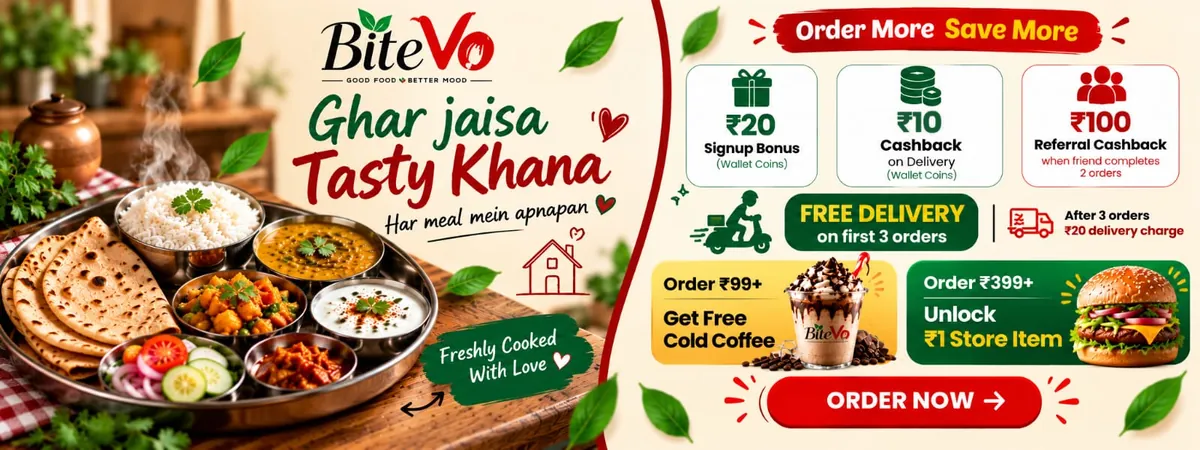
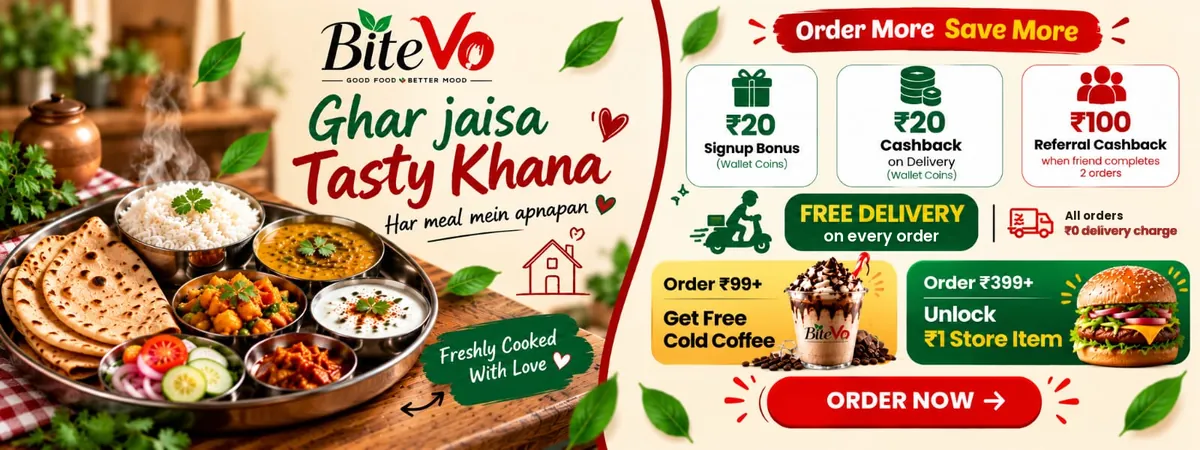
Free delivery on every order; ₹20 cashback after delivery
- DELIVERY_FEE=0 now means free delivery on every order (the default); the
  first-orders rule only applies when a fee is set. The bill and menu say
  "Free delivery on every order".
- Cashback after delivery is ₹20 again (signup bonus stays ₹20).
- Offer banner (website and app): ₹20 cashback, "FREE DELIVERY on every
  order" and "All orders / ₹0 delivery charge"; banner text updated.

Changed region(s): [[0.6783, 0.4978, 0.8017, 0.56], [0.8942, 0.4667, 0.9867, 0.5289], [0.74, 0.2489, 0.8017, 0.3111]]

diff --git a/backend/src/pricing.js b/backend/src/pricing.js
@@ -98,14 +98,18 @@ export async function quote({ items, couponCode, useWallet }, customer) {
   const itemTotal = lines.reduce((s, l) => s + l.price * l.qty, 0);
   const { offers } = config;
 
-  // Free delivery on the first few orders (cancelled ones don't count), then the delivery fee.
+  // Delivery: free on every order when the fee is 0. Otherwise free on the first few orders (cancelled ones
+  // don't count), then the delivery fee.
   const pastOrders = customer ? await store.count('orders', { customerId: customer._id, status: { $ne: 'cancelled' } }) : 0;
   const firstOrder = pastOrders === 0;
-  const freeLeft = Math.max(0, config.freeDeliveryOrders - pastOrders); // including this order
-  const deliveryFee = itemTotal === 0 || freeLeft > 0 ? 0 : config.deliveryFee;
-  const deliveryNote = freeLeft > 0
-    ? (customer ? `Free delivery: your ${ordinal(pastOrders + 1)} of ${config.freeDeliveryOrders} free deliveries` : `Free delivery on your first ${config.freeDeliveryOrders} orders`)
-    : config.freeDeliveryOrders > 0 ? `${money(config.deliveryFee)} delivery after your first ${config.freeDeliveryOrders} orders` : null;
+  const alwaysFree = !(config.deliveryFee > 0);
+  const freeLeft = alwaysFree ? 0 : Math.max(0, config.freeDeliveryOrders - pastOrders); // including this order
+  const freeNow = alwaysFree || freeLeft > 0;
+  const deliveryFee = itemTotal === 0 || freeNow ? 0 : config.deliveryFee;
+  const deliveryNote = alwaysFree ? 'Free delivery on every order'
+    : freeLeft > 0
+      ? (customer ? `Free delivery: your ${ordinal(pastOrders + 1)} of ${config.freeDeliveryOrders} free deliveries` : `Free delivery on your first ${config.freeDeliveryOrders} orders`)
+      : config.freeDeliveryOrders > 0 ? `${money(config.deliveryFee)} delivery after your first ${config.freeDeliveryOrders} orders` : null;
 
   // One ₹1 store item per order, once the other items reach storeUnlockAt.
   const storeQty = lines.filter(l => l.store).reduce((s, l) => s + l.qty, 0);
@@ -170,13 +174,13 @@ export async function quote({ items, couponCode, useWallet }, customer) {
     freeDeliveryAbove: null, // dropped: delivery is free on the first orders instead (see freeDelivery)
     // The "Order more, save more" offers on this bill:
     firstOrder,
-    freeDelivery: { orders: config.freeDeliveryOrders, left: freeLeft, applied: freeLeft > 0 && itemTotal > 0 },
+    freeDelivery: { orders: alwaysFree ? null : config.freeDeliveryOrders, left: freeLeft, always: alwaysFree, applied: freeNow && itemTotal > 0 },
     deliveryNote,
     freeCoffee: coffee ? { name: coffee.name, value: coffee.price } : null,
     storeItem: unlockAt > 0 ? { unlockAt, otherItemsTotal, moreNeeded: Math.max(0, unlockAt - otherItemsTotal), unlocked: otherItemsTotal >= unlockAt, inCart: storeQty, error: storeError } : null,
     deliveryCashback,
     offers: [
-      freeLeft > 0 && itemTotal > 0 && { key: 'free_delivery', text: deliveryNote },
+      freeNow && itemTotal > 0 && { key: 'free_delivery', text: deliveryNote },
       coffee && { key: 'first_order_coffee', text: `Free ${coffee.name} on your first order` },
       deliveryCashback > 0 && { key: 'delivery_cashback', text: `${money(deliveryCashback)} cashback to your wallet after delivery` },
     ].filter(Boolean),

diff --git a/backend/src/config.js b/backend/src/config.js
@@ -48,15 +48,15 @@ export const config = {
   uploadApiKey: (process.env.UPLOAD_API_KEY || '').trim(),
   // Prefix for menu photos the admin panel uploaded (stored as /uploads/<file>).
   adminPublicUrl: (process.env.ADMIN_PUBLIC_URL || '').replace(/\/$/, ''),
-  // Delivery is free on each customer's first FREE_DELIVERY_ORDERS orders (cancelled ones don't count),
-  // then DELIVERY_FEE on every order.
-  deliveryFee: num(process.env.DELIVERY_FEE, 20),
+  // Delivery fee (₹). 0 = free delivery on every order. Above 0: free on each customer's first
+  // FREE_DELIVERY_ORDERS orders (cancelled ones don't count), then DELIVERY_FEE on every order.
+  deliveryFee: num(process.env.DELIVERY_FEE, 0),
   freeDeliveryOrders: Math.max(0, num(process.env.FREE_DELIVERY_ORDERS, 3)),
   minOrderValue: num(process.env.MIN_ORDER_VALUE, 99),
   // The "Order more, save more" offers (see lib/offers.js). 0 switches one off.
   offers: {
     signupBonus: num(process.env.SIGNUP_BONUS, 20), // wallet coins for every new account
-    deliveryCashback: num(process.env.DELIVERY_CASHBACK, 10), // wallet coins for every delivered order
+    deliveryCashback: num(process.env.DELIVERY_CASHBACK, 20), // wallet coins for every delivered order
     freeCoffeeFrom: num(process.env.FREE_COFFEE_FROM, 99), // first order of at least this much gets a free Cold Coffee
     storeUnlockAt: num(process.env.STORE_UNLOCK_AT, 399), // other items needed before one ₹1 store item can be added
   },

diff --git a/frontend/src/pages/Menu.jsx b/frontend/src/pages/Menu.jsx
@@ -185,7 +185,7 @@ export default function Menu() {
 
           {config && (
             <p className="menu-note">
-              {config.freeDeliveryOrders > 0 ? `Free delivery on your first ${config.freeDeliveryOrders} orders, then ${money(config.deliveryFee)}.` : `Delivery ${money(config.deliveryFee)}.`} Photos are for illustration.
+              {!(config.deliveryFee > 0) ? 'Free delivery on every order.' : config.freeDeliveryOrders > 0 ? `Free delivery on your first ${config.freeDeliveryOrders} orders, then ${money(config.deliveryFee)}.` : `Delivery ${money(config.deliveryFee)}.`} Photos are for illustration.
             </p>
           )}
         </div>

diff --git a/backend/src/routes/public.js b/backend/src/routes/public.js
@@ -24,7 +24,7 @@ router.get('/config', async (req, res) => {
   res.json({
     zones,
     deliveryFee: config.deliveryFee,
-    freeDeliveryOrders: config.freeDeliveryOrders, // delivery is free on each customer's first orders
+    freeDeliveryOrders: config.deliveryFee > 0 ? config.freeDeliveryOrders : 0, // delivery is free on each customer's first orders (0 = always free, or never)
     freeDeliveryAbove: null, // dropped (kept so older pages don't break)
     minOrderValue: config.minOrderValue,
     // "Order more, save more" (0 = off): signup bonus and per-order cashback (wallet coins), the order

diff --git a/frontend/src/components/BannerSlider.jsx b/frontend/src/components/BannerSlider.jsx
@@ -15,7 +15,7 @@ const BANNERS = [
   },
   {
     file: 'offer-rewards',
-    alt: 'Order more, save more: ₹20 signup bonus, ₹10 cashback on delivery and ₹100 referral cashback in wallet coins, free delivery on your first 3 orders, a free cold coffee on orders of ₹99+ and a ₹1 store item on orders of ₹399+.',
+    alt: 'Order more, save more: ₹20 signup bonus, ₹20 cashback on delivery and ₹100 referral cashback in wallet coins, free delivery on every order, a free cold coffee on orders of ₹99+ and a ₹1 store item on orders of ₹399+.',
   },
 ];
 
